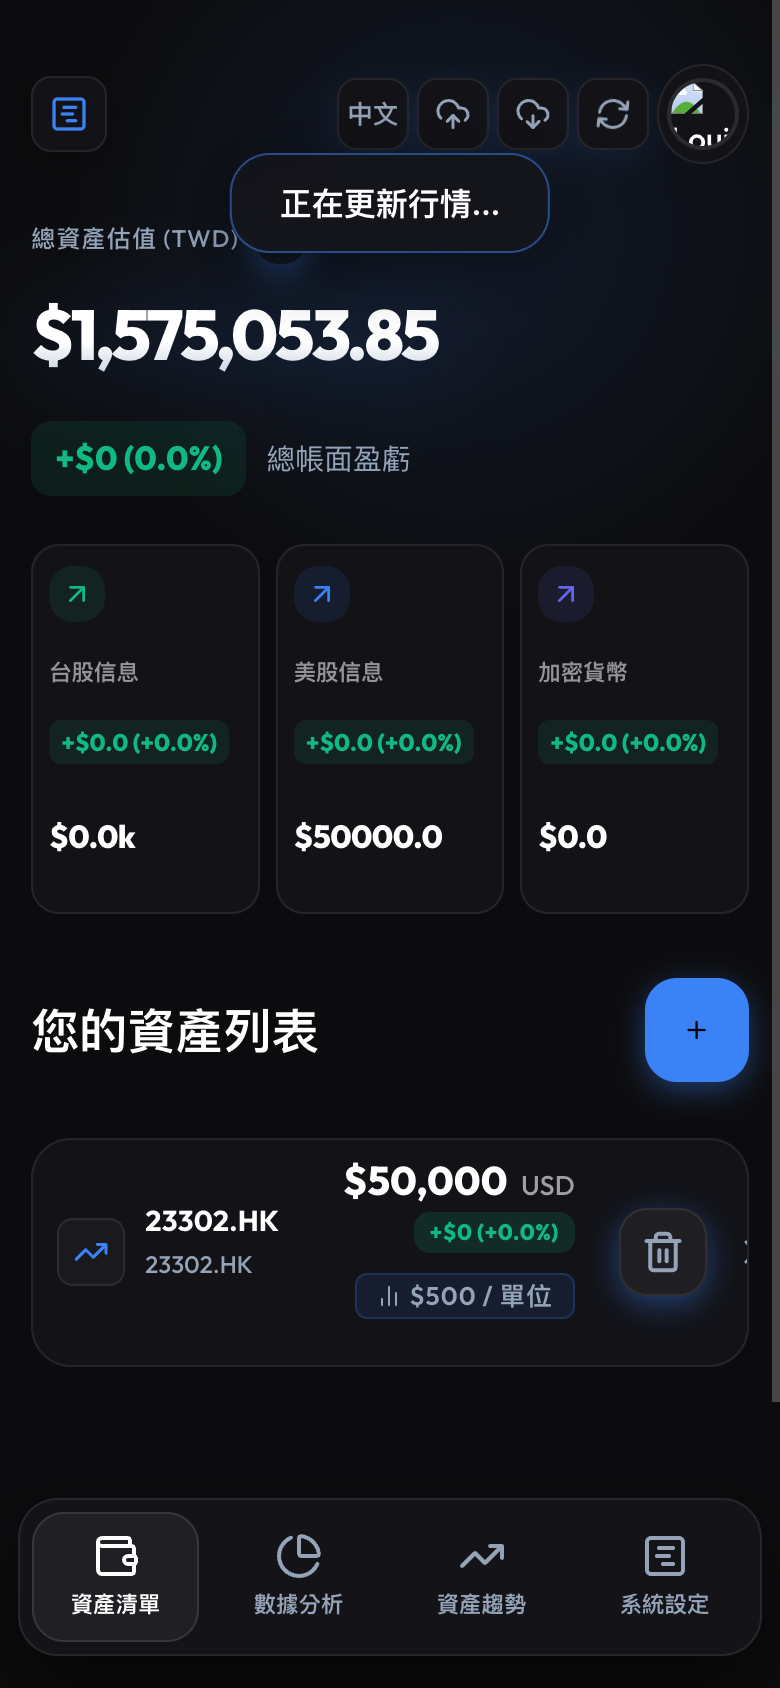
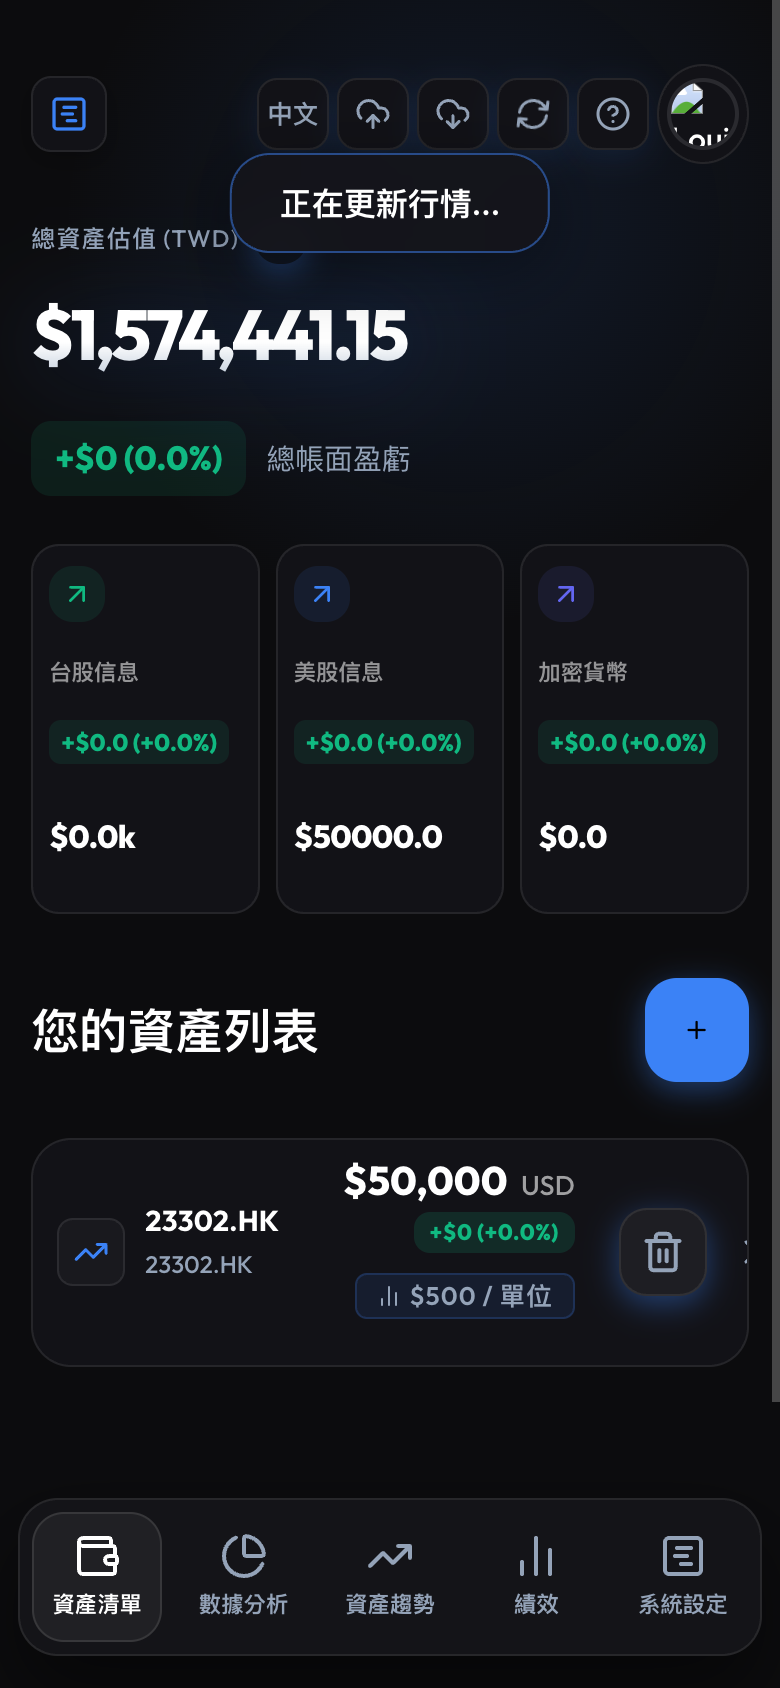
chore: add screenshots for stats/trend/settings guide sections; add tab data-testids
- Captured 5 new guide screenshots: stats-market, stats-asset, trend-chart,
  trend-history, settings-view
- Updated existing screenshots with fresh captures
- Added data-testid attributes to all 5 tab bar items and stats toggle buttons
  so the screenshot automation script can locate them reliably without
  fragile text-matching against translated strings

diff --git a/src/App.tsx b/src/App.tsx
@@ -1130,12 +1130,14 @@ function App() {
                 <h2 className="view-title">{t('allocation')}</h2>
                 <div className="stats-toggle">
                   <button
+                    data-testid="by-market-btn"
                     className={`toggle-btn ${statsView === 'market' ? 'active' : ''}`}
                     onClick={() => setStatsView('market')}
                   >
                     {t('byMarket')}
                   </button>
                   <button
+                    data-testid="by-asset-btn"
                     className={`toggle-btn ${statsView === 'asset' ? 'active' : ''}`}
                     onClick={() => setStatsView('asset')}
                   >
@@ -1383,23 +1385,23 @@ function App() {
 
       {/* Tab Bar (for Mobile) */}
       <nav className="tab-bar">
-        <div className={`tab-item ${activeTab === 'assets' ? 'active' : ''}`} onClick={() => setActiveTab('assets')}>
+        <div data-testid="tab-assets" className={`tab-item ${activeTab === 'assets' ? 'active' : ''}`} onClick={() => setActiveTab('assets')}>
           <Wallet size={24} />
           <span>{t('assets')}</span>
         </div>
-        <div className={`tab-item ${activeTab === 'stats' ? 'active' : ''}`} onClick={() => setActiveTab('stats')}>
+        <div data-testid="tab-stats" className={`tab-item ${activeTab === 'stats' ? 'active' : ''}`} onClick={() => setActiveTab('stats')}>
           <PieChart size={24} />
           <span>{t('stats')}</span>
         </div>
-        <div className={`tab-item ${activeTab === 'trend' ? 'active' : ''}`} onClick={() => setActiveTab('trend')}>
+        <div data-testid="tab-trend" className={`tab-item ${activeTab === 'trend' ? 'active' : ''}`} onClick={() => setActiveTab('trend')}>
           <TrendingUp size={24} />
           <span>{t('trend')}</span>
         </div>
-        <div className={`tab-item ${activeTab === 'performance' ? 'active' : ''}`} onClick={() => setActiveTab('performance')}>
+        <div data-testid="tab-performance" className={`tab-item ${activeTab === 'performance' ? 'active' : ''}`} onClick={() => setActiveTab('performance')}>
           <BarChart2 size={24} />
           <span>{t('performance')}</span>
         </div>
-        <div className={`tab-item ${activeTab === 'settings' ? 'active' : ''}`} onClick={() => setActiveTab('settings')}>
+        <div data-testid="tab-settings" className={`tab-item ${activeTab === 'settings' ? 'active' : ''}`} onClick={() => setActiveTab('settings')}>
           <GanttChartSquare size={24} />
           <span>{t('settings')}</span>
         </div>

diff --git a/public/guide/index.html b/public/guide/index.html
@@ -303,7 +303,7 @@
 <p><strong>Q：統計圖表是即時更新的嗎？</strong><br>A：統計（配置圖）是即時的，每次切換到統計頁籤都會用最新市價計算。趨勢圖則是每天記錄一次快照，不會在同一天內變動。</p>
 <p><strong>Q：交易所同步和手動新增可以同時使用嗎？</strong><br>A：可以。交易所同步回來的資產和你手動新增的資產會一起出現在資產列表中，互不干擾。</p>
 <hr>
-<p><em>AssetTracker v0.5.1 · 最後更新：2026-04-27</em></p>
+<p><em>AssetTracker v0.5.2 · 最後更新：2026-04-27</em></p>
 
     </div>
   </div>
